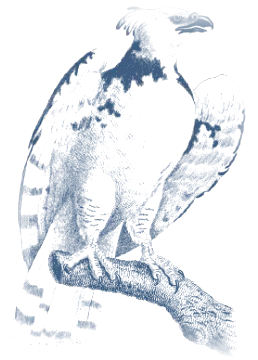
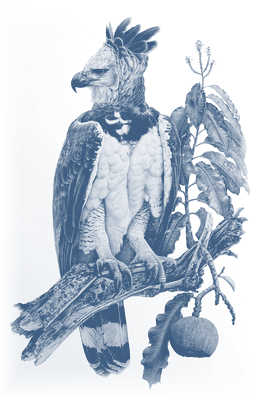
Livreto: nova harpia, gravuras mais azuis e nítidas, faixas do papel mais suaves, aviso de página vazia no topo

diff --git a/src/components/PassportBook.tsx b/src/components/PassportBook.tsx
@@ -289,7 +289,7 @@ function VisaPage({ stamps, seen, hint }: { stamps: StampItem[]; seen: Set<strin
     <div className="flex h-full flex-col px-[5%] pb-[8%] pt-[5%]">
       <p className="text-center text-[10px] font-semibold uppercase tracking-[0.3em] text-tinta-suave">Vistos · Visas</p>
       {hint && !stamps.length ? (
-        <p className="m-auto max-w-[70%] -rotate-3 text-center font-hand text-xl text-tinta-suave/80">Espaço reservado para o próximo carimbo</p>
+        <p className="mx-auto mt-[14%] max-w-[70%] -rotate-3 text-center font-hand text-xl text-tinta-suave/80">Espaço reservado para o próximo carimbo</p>
       ) : (
         <ul className="mt-2 grid flex-1 grid-cols-2 grid-rows-2 place-items-center">
           {stamps.map((s, i) => (

diff --git a/src/styles.css b/src/styles.css
@@ -296,7 +296,7 @@
 .passport-paper {
   background-color: var(--papel);
   background-image:
-    linear-gradient(118deg, transparent 0 22%, color-mix(in oklab, #f4d79c 45%, transparent) 22% 38%, transparent 38% 62%, color-mix(in oklab, #f6e2b8 50%, transparent) 62% 74%, transparent 74%),
+    linear-gradient(118deg, transparent 0 22%, color-mix(in oklab, #f4d79c 30%, transparent) 22% 38%, transparent 38% 62%, color-mix(in oklab, #f6e2b8 35%, transparent) 62% 74%, transparent 74%),
     repeating-linear-gradient(32deg, transparent 0 5px, color-mix(in oklab, #e59a5c 22%, transparent) 5px 6px);
 }
 .dark .passport-paper {

diff --git a/src/components/PassportArt.tsx b/src/components/PassportArt.tsx
@@ -35,7 +35,7 @@ export const PageArt = memo(function PageArt({ page }: { page: number }) {
         alt=""
         loading="lazy"
         draggable={false}
-        className={`absolute ${a.box} m-auto w-auto max-w-[92%] object-contain opacity-[0.38] blur-[0.5px] mix-blend-multiply dark:opacity-25 dark:mix-blend-screen dark:invert`}
+        className={`absolute ${a.box} m-auto w-auto max-w-[92%] object-contain opacity-[0.5] blur-[0.4px] dark:opacity-30 dark:invert`}
       />
     </div>
   );

diff --git a/public/passport-art/CREDITOS.md b/public/passport-art/CREDITOS.md
@@ -1,11 +1,11 @@
 # Créditos das gravuras do livreto
 
-Todas em domínio público, obtidas no Wikimedia Commons e convertidas para a tinta azul do passaporte (fundo transparente, bordas esmaecidas). Usadas por `src/components/PassportArt.tsx`.
+Todas em domínio público, obtidas no Wikimedia Commons (exceto a harpia, ver abaixo) e convertidas para a tinta azul do passaporte (fundo transparente, bordas esmaecidas). Usadas por `src/components/PassportArt.tsx`.
 
 | Arquivo | Assunto | Origem | Fonte |
 |---|---|---|---|
 | `azul.webp` | Arara-azul | A. F. Lydon, litografia do séc. XIX | [Psittacus hyacinthinus Lydon.jpg](https://commons.wikimedia.org/wiki/File:Psittacus_hyacinthinus_Lydon.jpg) |
-| `harpia.webp` | Harpia | gravura do séc. XIX | [Great harpy of America.JPG](https://commons.wikimedia.org/wiki/File:Great_harpy_of_America.JPG) |
+| `harpia.webp` | Harpia | Ilustração enviada pelo dono do projeto ("harpia correta") | Autor e licença a confirmar pelo dono antes de tornar o app público |
 | `onca.webp` | Onça-pintada | Pearson Scott Foresman, desenho doado ao domínio público | [Jaguar (PSF).png](https://commons.wikimedia.org/wiki/File:Jaguar_%28PSF%29.png) |
 | `caninde.webp` | Arara-canindé | gravura do séc. XIX | [Natural History, Birds - Macaw.jpg](https://commons.wikimedia.org/wiki/File:Natural_History%2C_Birds_-_Macaw.jpg) |
 | `tucano.webp` | Tucano | Pearson Scott Foresman, desenho doado ao domínio público | [Toucan (PSF).png](https://commons.wikimedia.org/wiki/File:Toucan_%28PSF%29.png) |
